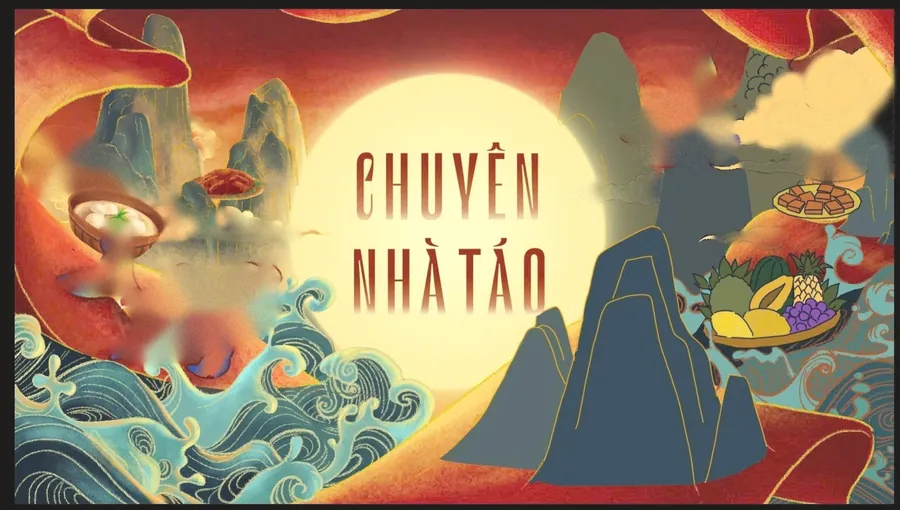
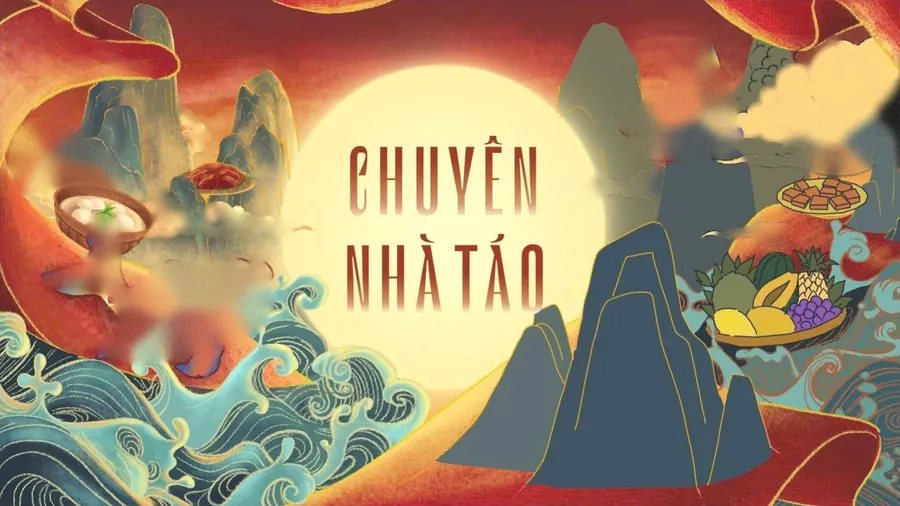
Tranh cá chép làm nền phần sách (đứng yên theo màn hình khi cuộn), bỏ viền đen ảnh gốc

diff --git a/index.html b/index.html
@@ -100,32 +100,29 @@
     </section>
 
     <!-- =================================================================
-         Dải tranh dưới hero: cá chép vượt sóng dưới trăng (bộ layer ChuyenNhaTao_layers).
-         Các lớp xếp chồng đúng vị trí tranh gốc, chuyển động bằng GSAP (app.js: initScene).
+         S02 · INTERACTIVE STORYBOOK HUB (4 chương + lắng nghe + huy hiệu)
          ================================================================= -->
-    <section class="scene" id="canh" aria-label="Tranh Chuyện Nhà Táo: cá chép vượt sóng dưới vầng trăng, mây cuộn và mâm ngũ quả">
-      <div class="scene-stage" id="scene-stage">
+    <section class="section" id="doc-sach" aria-labelledby="book-title">
+      <!-- Nền của phần sách: tranh cá chép vượt sóng dưới trăng (bộ layer ChuyenNhaTao_layers),
+           các lớp xếp chồng đúng vị trí tranh gốc, chuyển động bằng GSAP (app.js: initScene) -->
+      <div class="scene" id="canh" aria-hidden="true"><div class="scene-sticky">
+        <div class="scene-stage" id="scene-stage">
         <picture>
           <source media="(max-width: 700px)" srcset="images/canh/nen-900.webp">
           <img class="scene-bg" src="images/canh/nen.webp" alt="" decoding="async">
         </picture>
-          <div class="scene-layer" data-kind="cloud" data-from="left" style="left:2.187%;top:24.327%;width:12.462%"><img src="images/canh/may_trai.webp" alt="" decoding="async"></div>
-          <div class="scene-layer" data-kind="cloud" data-from="left" style="left:20.855%;top:21.903%;width:3.764%"><img src="images/canh/may_nho_sau_nui.webp" alt="" decoding="async"></div>
-          <div class="scene-layer" data-kind="cloud" data-from="left" style="left:16.684%;top:37.522%;width:16.785%"><img src="images/canh/may_dai_giua_trai.webp" alt="" decoding="async"></div>
-          <div class="scene-layer" data-kind="cloud" data-from="right" style="left:61.445%;top:32.944%;width:12.36%"><img src="images/canh/may_nho_giua.webp" alt="" decoding="async"></div>
-          <div class="scene-layer" data-kind="cloud" data-from="right" style="left:79.247%;top:44.255%;width:8.545%"><img src="images/canh/may_nho_phai.webp" alt="" decoding="async"></div>
-          <div class="scene-layer" data-kind="cloud" data-from="right" style="left:82.096%;top:8.618%;width:17.345%"><img src="images/canh/may_lon_goc_phai.webp" alt="" decoding="async"></div>
-          <div class="scene-layer" data-kind="wave" data-from="right" style="left:81.282%;top:39.587%;width:17.904%"><img src="images/canh/song_phai.webp" alt="" decoding="async"></div>
-          <div class="scene-layer" data-kind="wave" data-from="left" style="left:1.628%;top:54.399%;width:45.829%"><img src="images/canh/song_trai.webp" alt="" decoding="async"></div>
-          <div class="scene-layer" data-kind="fish" data-from="left" style="left:6.358%;top:43.178%;width:24.975%"><img src="images/canh/ca_duoi_trai.webp" alt="" decoding="async"></div>
-          <div class="scene-layer" data-kind="fish" data-from="right" style="left:67.854%;top:6.643%;width:14.14%"><img src="images/canh/ca_tren_phai.webp" alt="" decoding="async"></div>
+          <div class="scene-layer" data-kind="cloud" data-from="left" style="left:0.47%;top:23.12%;width:12.787%"><img src="images/canh/may_trai.webp" alt="" decoding="async"></div>
+          <div class="scene-layer" data-kind="cloud" data-from="left" style="left:19.624%;top:20.613%;width:3.862%"><img src="images/canh/may_nho_sau_nui.webp" alt="" decoding="async"></div>
+          <div class="scene-layer" data-kind="cloud" data-from="left" style="left:15.344%;top:36.769%;width:17.223%"><img src="images/canh/may_dai_giua_trai.webp" alt="" decoding="async"></div>
+          <div class="scene-layer" data-kind="cloud" data-from="right" style="left:61.273%;top:32.033%;width:12.683%"><img src="images/canh/may_nho_giua.webp" alt="" decoding="async"></div>
+          <div class="scene-layer" data-kind="cloud" data-from="right" style="left:79.541%;top:43.733%;width:8.768%"><img src="images/canh/may_nho_phai.webp" alt="" decoding="async"></div>
+          <div class="scene-layer" data-kind="cloud" data-from="right" style="left:82.463%;top:6.871%;width:17.797%"><img src="images/canh/may_lon_goc_phai.webp" alt="" decoding="async"></div>
+          <div class="scene-layer" data-kind="wave" data-from="right" style="left:81.628%;top:38.904%;width:18.372%"><img src="images/canh/song_phai.webp" alt="" decoding="async"></div>
+          <div class="scene-layer" data-kind="wave" data-from="left" style="left:-0.104%;top:54.225%;width:47.025%"><img src="images/canh/song_trai.webp" alt="" decoding="async"></div>
+          <div class="scene-layer" data-kind="fish" data-from="left" style="left:4.749%;top:42.618%;width:25.626%"><img src="images/canh/ca_duoi_trai.webp" alt="" decoding="async"></div>
+          <div class="scene-layer" data-kind="fish" data-from="right" style="left:67.85%;top:4.828%;width:14.509%"><img src="images/canh/ca_tren_phai.webp" alt="" decoding="async"></div>
       </div>
-    </section>
-
-    <!-- =================================================================
-         S02 · INTERACTIVE STORYBOOK HUB (4 chương + lắng nghe + huy hiệu)
-         ================================================================= -->
-    <section class="section" id="doc-sach" aria-labelledby="book-title">
+      </div></div>
       <div class="container">
         <div class="section-head reveal">
           <h2 id="book-title">Cuốn sách bốn chương</h2>

diff --git a/styles.css b/styles.css
@@ -1354,14 +1354,27 @@ body::after {
 .qr-big-id { text-align: center; font-family: ui-monospace, Consolas, monospace; font-weight: 800; font-size: 18px; color: var(--text); }
 
 /* =========================================================================
-   DẢI TRANH DƯỚI HERO: cá chép vượt sóng (các lớp xếp chồng đúng vị trí tranh gốc)
+   NỀN PHẦN SÁCH (ngay dưới hero): tranh cá chép vượt sóng, các lớp xếp chồng đúng vị trí tranh gốc.
+   Tranh phủ kín phần sách như background-size: cover; lớp kem mỏng phủ lên cho nhạt và chữ dễ đọc.
    ========================================================================= */
-.scene { position: relative; overflow: hidden; isolation: isolate; height: clamp(280px, 56.66vw, 860px); background: #ecc79e; }
-.scene-stage { position: absolute; left: 50%; top: 50%; width: max(100%, 494px); aspect-ratio: 1966 / 1114; transform: translate(-50%, -50%); }
-.scene-bg { position: absolute; inset: 0; width: 100%; height: 100%; display: block; object-fit: cover; }
+#doc-sach { isolation: isolate; overflow: hidden; }
+.scene { position: absolute; inset: 0; z-index: -1; background: #ecc79e; pointer-events: none; }
+/* Tranh đứng yên theo khung màn hình khi cuộn qua phần sách (sticky), nội dung trượt qua phía trên */
+.scene-sticky { position: sticky; top: 0; height: 100vh; height: 100lvh; overflow: hidden; container-type: size; }
+/* Phủ kín khung màn hình (cover); điện thoại dọc thì giới hạn phóng to để vẫn thấy cá và sóng */
+.scene-stage { position: absolute; left: 50%; top: 50%; width: max(100cqw, 177.9cqh); aspect-ratio: 1916 / 1077; transform: translate(-50%, -50%); }
+@media (max-aspect-ratio: 1/1) {
+  .scene-stage { width: max(100cqw, min(177.9cqh, 250cqw)); top: auto; bottom: 0; transform: translateX(-50%);
+    -webkit-mask-image: linear-gradient(transparent, #000 22%, #000 90%, transparent); mask-image: linear-gradient(transparent, #000 22%, #000 90%, transparent); }
+  .scene { background: linear-gradient(#f3d9b8, #e9b98a); }
+}
+.scene-bg { position: absolute; inset: 0; width: 100%; height: 100%; display: block; }
 .scene-layer { position: absolute; will-change: transform; }
 .scene-layer img { display: block; width: 100%; height: auto; will-change: transform; }
-/* Nối mềm với hero tối ở trên và nền kem ở dưới */
-.scene::before, .scene::after { content: ""; position: absolute; left: 0; right: 0; z-index: 2; pointer-events: none; }
-.scene::before { top: 0; height: 12%; background: linear-gradient(#120b07, rgba(18, 11, 7, 0)); }
-.scene::after { bottom: 0; height: 14%; background: linear-gradient(rgba(255, 248, 240, 0), var(--bg)); }
+/* Nối với hero tối ở trên, lớp kem mỏng cho tranh nhạt, chuyển dần sang nền kem ở dưới */
+.scene::before { content: ""; position: absolute; inset: 0; z-index: 2; pointer-events: none;
+  background: linear-gradient(180deg, #120b07 0, rgba(18, 11, 7, 0) 70px),
+    linear-gradient(180deg, rgba(255, 246, 236, .62) 0, rgba(255, 246, 236, .5) 260px, rgba(255, 246, 236, .3) 45%, rgba(255, 246, 236, .42) 82%, var(--bg) 100%); }
+/* Chữ tiêu đề nằm trên tranh: thêm quầng kem mềm cho rõ */
+#doc-sach .section-head h2, #doc-sach .section-head p { text-shadow: 0 1px 0 rgba(255, 248, 240, .7), 0 0 18px rgba(255, 246, 236, .9); }
+#doc-sach .flip-hint { text-shadow: 0 0 10px rgba(255, 246, 236, .95); color: var(--text); }
